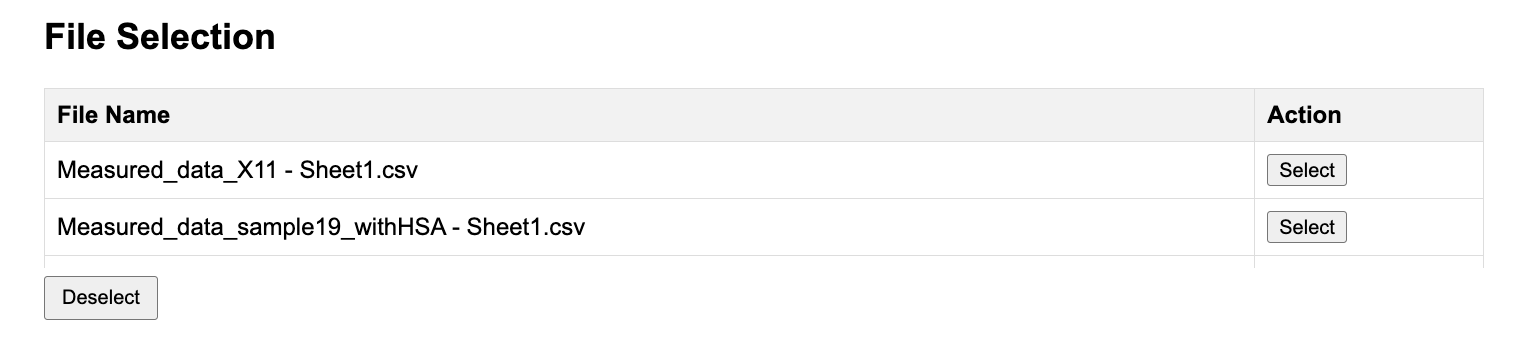
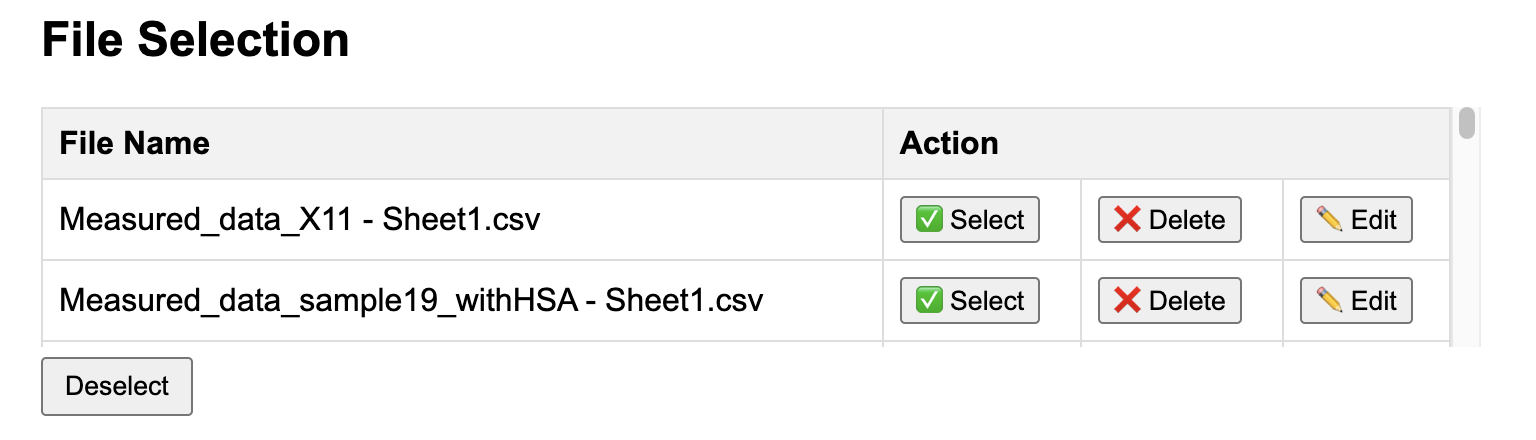
Align Docs with file edit

diff --git a/README.md b/README.md
@@ -93,6 +93,19 @@ This document provides instruction on deploying a web interface that helps visua
 	<img src="/images/fileselection.png" width="600">
 </div>
 
+* ***CSV File Edit*** You may click on ***Edit*** button to modify the content of the respective CSV file. It comes in 2 modes:
+	- `Table`:
+
+	<div align="center">
+		<img src="/images/csvtableedit.png" width="600">
+	</div>
+
+	- `Raw Text`:
+
+	<div align="center">
+		<img src="/images/csvtextedit.png" width="600">
+	</div>
+
 * ***Data Display***:
 	- `Display Range` Modification in display range changes the displayed data and respective unit displayed on the plot. 
 	- `Split by Blanked` Seperate data points into 2 plots, ***Blanked*** and ***Non-Blanked***, which is set by value of column ['Blanked'] in the browsed csv.
